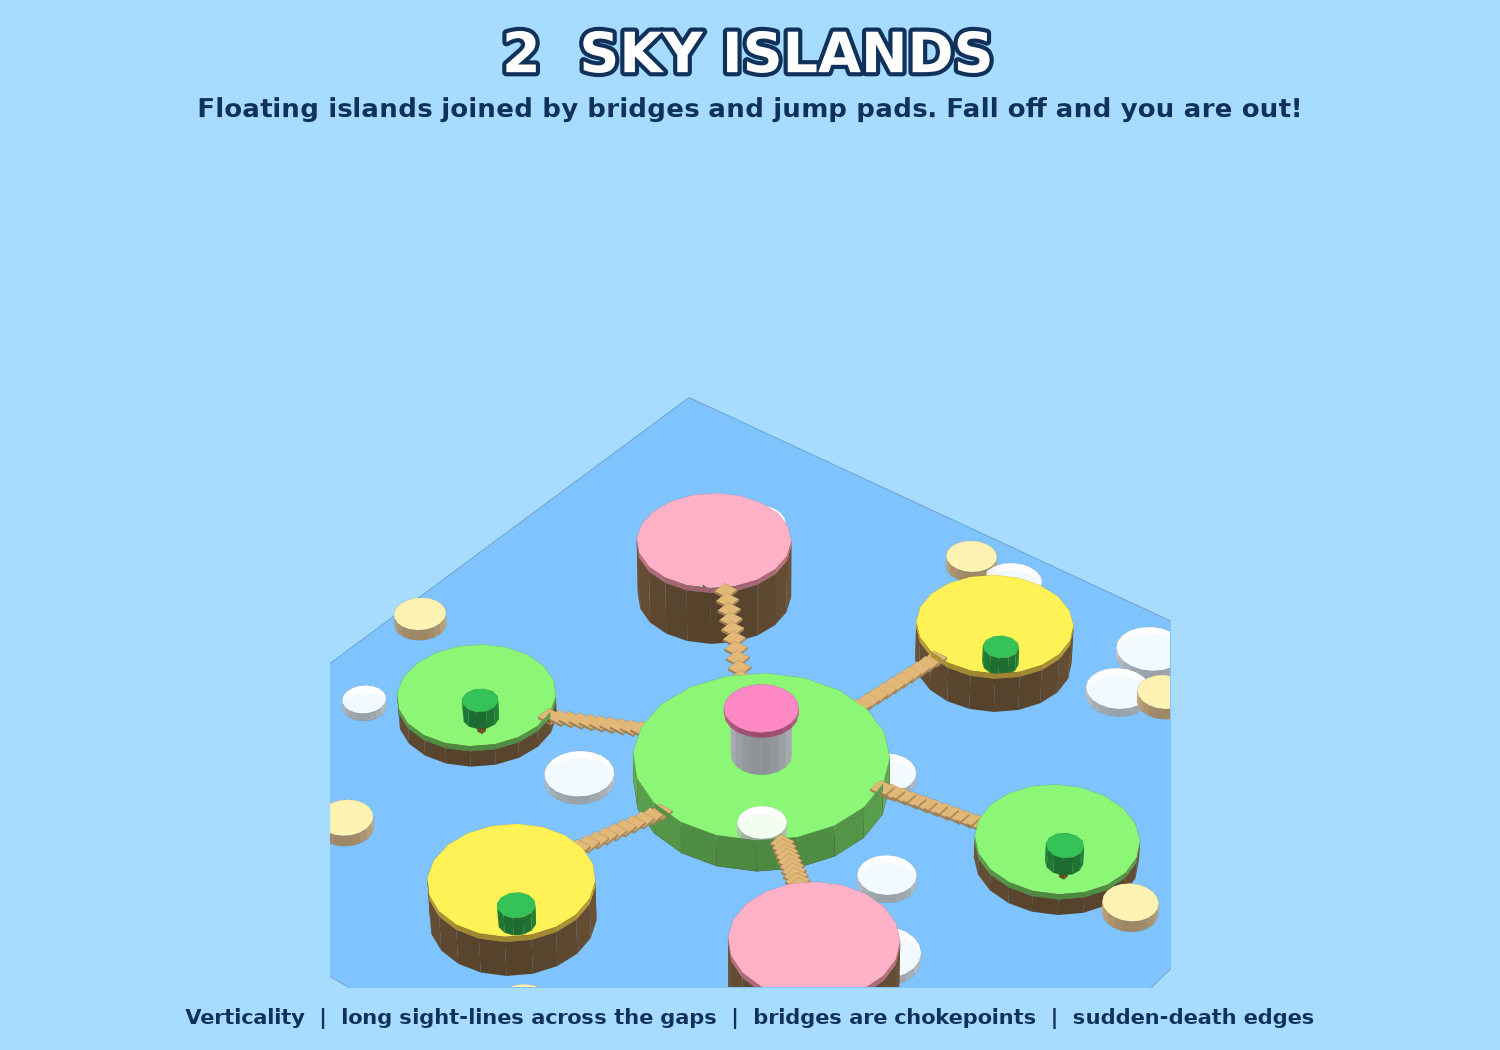
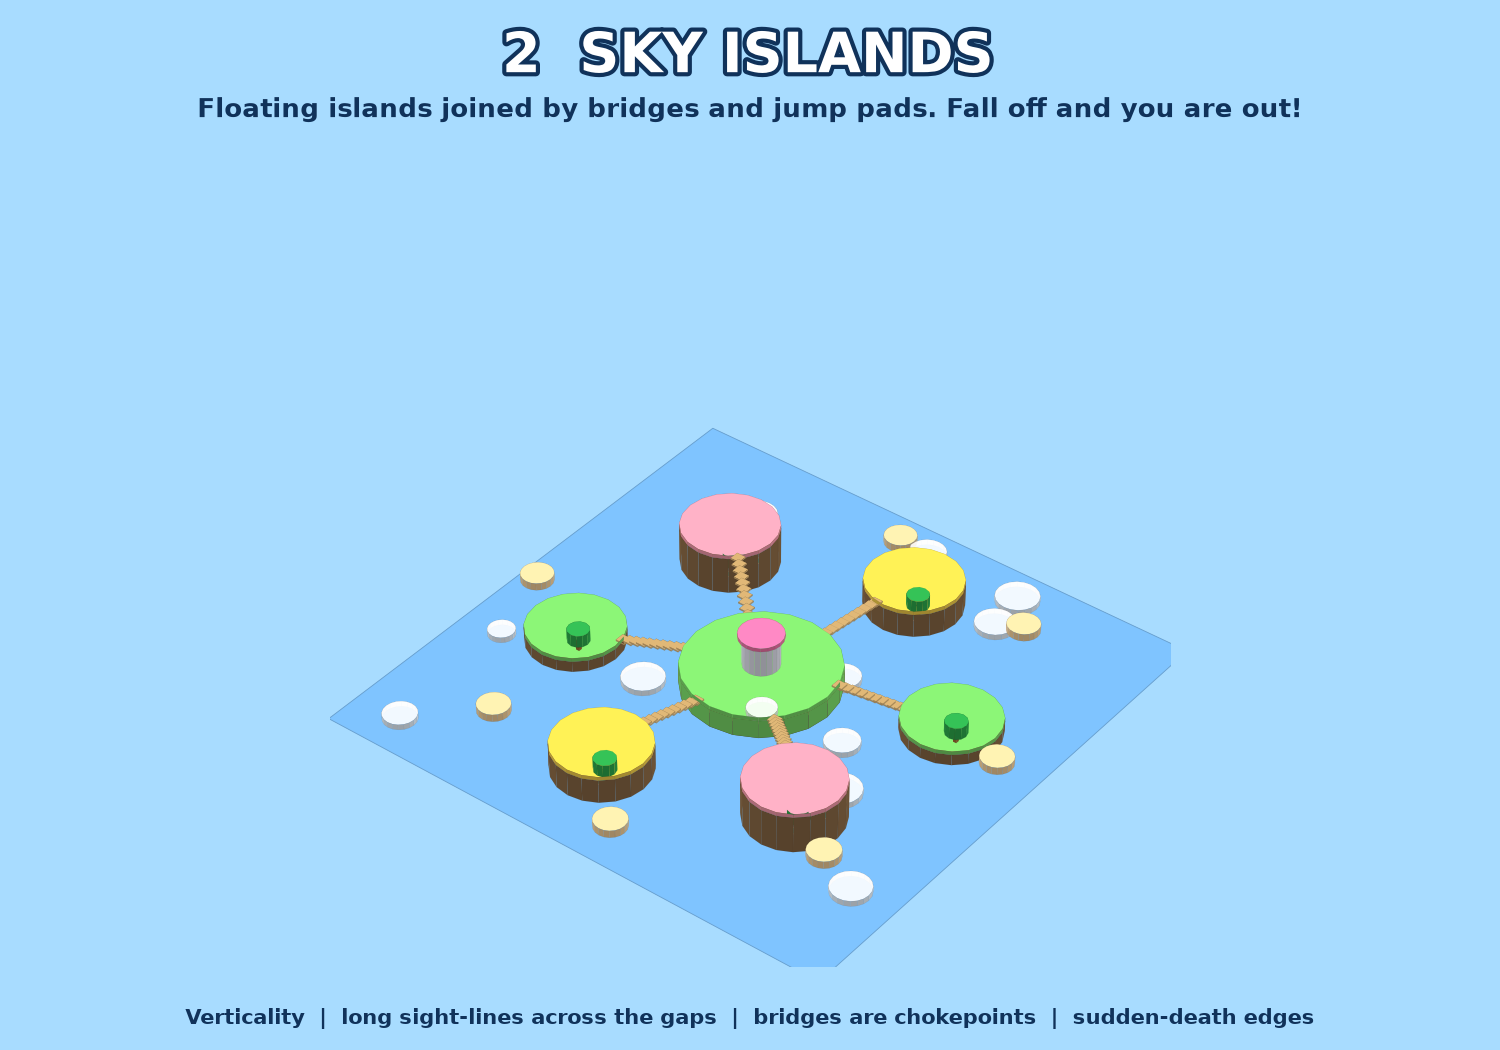
Map concept previews: framing
Claude-Session: https://claude.ai/code/session_019YN3vKzyRbMrwnjKmkykPt

Changed region(s): [[0.2147, 0.3657, 0.7973, 0.9448]]

diff --git a/figure-me-out/docs/maps/map_concepts.py b/figure-me-out/docs/maps/map_concepts.py
@@ -71,7 +71,7 @@ class Scene:
 def render(scene, path, w=1500, h=1050):
     fig = plt.figure(figsize=(w / 100, h / 100), dpi=100)
     fig.patch.set_facecolor(scene.sky)
-    ax = fig.add_axes([0, 0.06, 1, 0.80], projection="3d")
+    ax = fig.add_axes([0, 0.08, 1, 0.80], projection="3d")
     ax.set_facecolor(scene.sky)
     ax.set_axis_off()
     ax.computed_zorder = False  # draw in the order we say: floor, then things, then spawn pads
@@ -85,7 +85,7 @@ def render(scene, path, w=1500, h=1050):
         t = [(x + 2.2 * math.cos(a), z + 2.2 * math.sin(a), 0.4 + 0.0) for a in [i * math.pi / 6 for i in range(12)]]
         sp = Poly3DCollection([t], facecolors=[(0.25, 0.95, 1.0, 1)], edgecolors=[(1, 1, 1, 1)], linewidths=0.8); sp.set_zorder(1.5); ax.add_collection3d(sp)
     ax.set_xlim(-H, H); ax.set_ylim(-H, H); ax.set_zlim(0, 2 * H * 0.62)
-    ax.set_box_aspect((1, 1, 0.62), zoom=1.75)
+    ax.set_box_aspect((1, 1, 0.62), zoom=1.12)
     ax.view_init(elev=38, azim=-52)
     ax.dist = 7.4
     fig.text(0.5, 0.945, scene.name, ha="center", va="center", fontsize=40, fontweight="bold", color="white",
